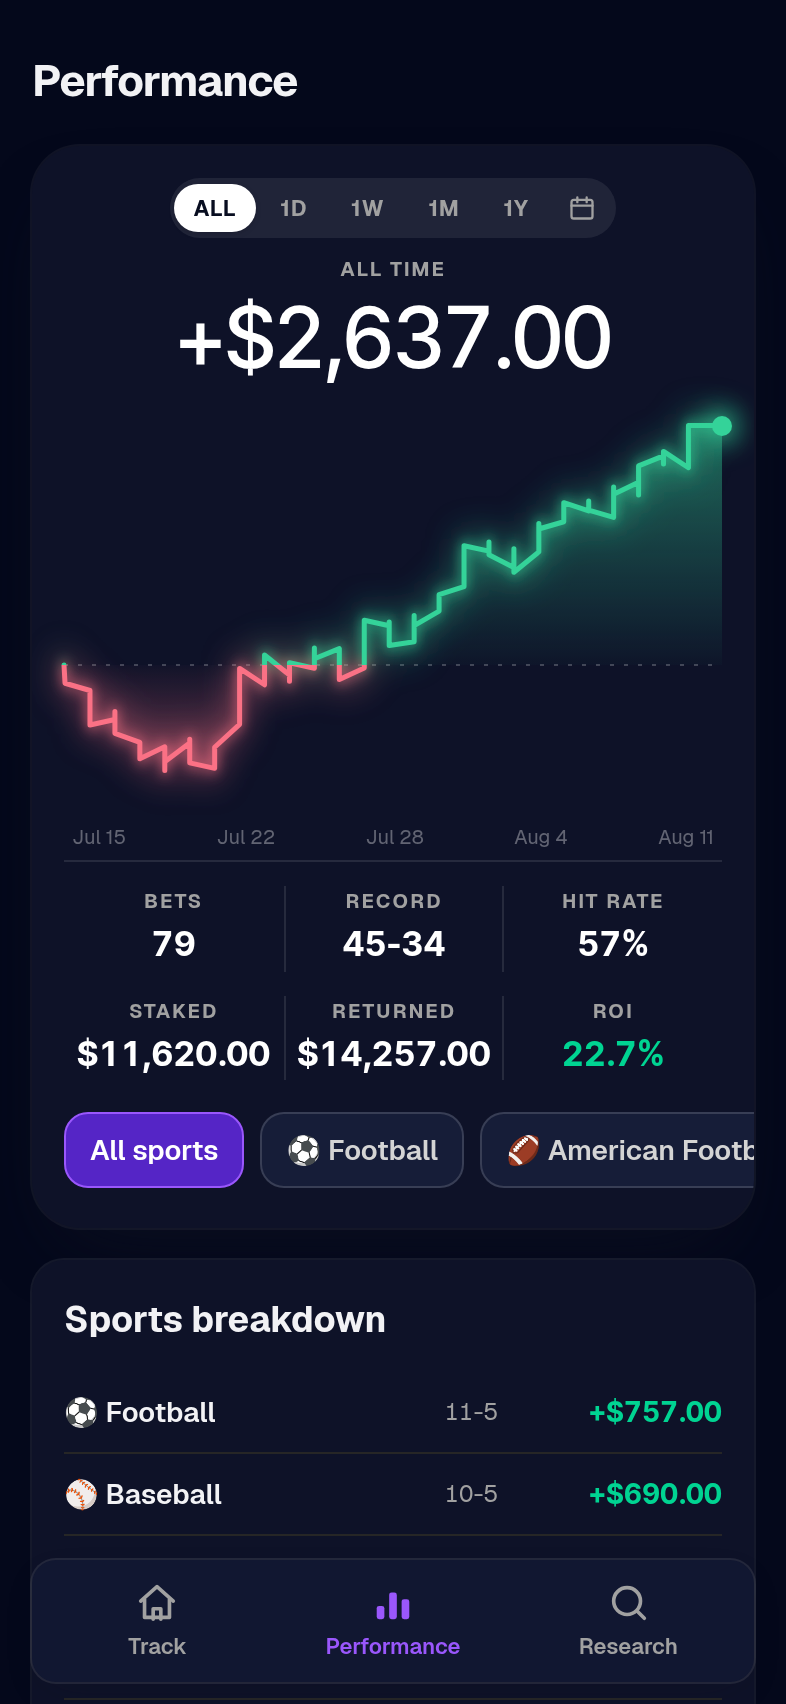
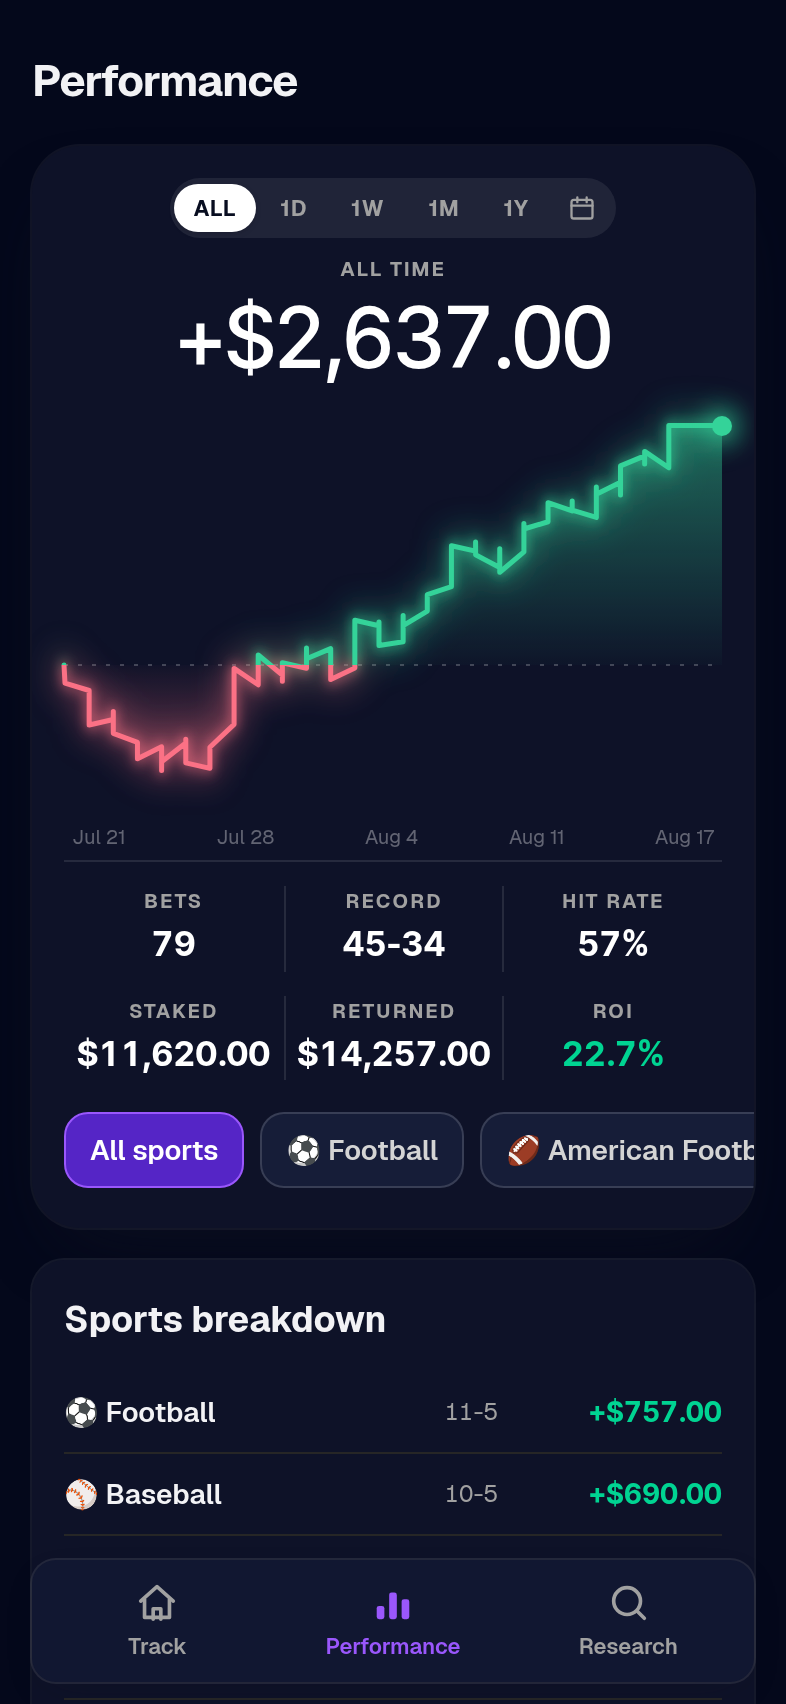
Regenerate the landing screenshots and update the docs for the rename
THE ONE A GREP COULD NOT FIND. The landing hero shows three phones, and
those are not live components: they are six PNGs in public/shots/, shot
on 12 August, with the app's name baked into the pixels. grep over src/
came back clean while the old name sat in the biggest image on the site.
Only looking at the screenshot found it.

All six regenerated from the same preview routes shotset.mjs uses, at
the scale the shipped files actually were. Checked against the old ones
pixel by pixel: the two research shots came out byte identical, which is
the control, since that page has no wordmark. Track and Performance
differ only where the date drives them, because Insight of the day is
seeded by the date and the chart axis is relative to today.

Docs: updated only the lines saying what the product currently IS.
Left alone on purpose, each for a reason:
- the Supabase project is really still named Celebet in the dashboard,
  so renaming that sentence would send a reader looking for a project
  that does not exist
- gocelebet.com and the demo account address, which move with the domain
- the live branch name, which is an identifier
- IDEAS.md entirely, since a backlog is a record of decisions

RENAME-DECISIONS.md records every call made without asking, per the
brief, including why the wordmark kept its typeface: changing a font is
the owner's decision and a rename is not permission to make it.

Verified: full check green, both scrub tests pass, and eight theme
[…]

diff --git a/RENAME-DECISIONS.md b/RENAME-DECISIONS.md
@@ -1,0 +1,85 @@
+# Rename: the calls I made without asking
+
+The brief said to make the call myself on anything it had not decided,
+pick the option that is easiest to reverse, and write down what I chose
+and why. This is that list. August 2026.
+
+## 1. The landing page screenshots were regenerated
+
+**The find of the job, and no grep could have caught it.** The landing
+page's hero shows three phones. Those are not live components, they are
+six PNG screenshots in `public/shots/`, taken on 12 August. The app's
+name is baked into those pixels, so `grep -ril celebet src/` came back
+clean while the old name was still sitting in the middle of the hero.
+
+I only found it by looking at the screenshot, which is exactly why the
+brief asked for that step.
+
+Regenerated all six from the same preview routes and the same settings
+`shotset.mjs` uses, except at deviceScaleFactor 2 rather than 3, because
+2 is what the shipped files actually were (786x1704, not 1179x2556).
+
+Verified against the old files pixel by pixel:
+- `research-light` and `research-dark` came out byte identical, which is
+  the control: that page has no wordmark, so nothing should have moved.
+- `track` and `performance` differ by 4% and 1%. That is the date, not
+  the rename: Insight of the day is seeded by the date, and the chart's
+  axis is relative to today. The originals were shot on 12 August.
+
+Reversible: the old files are in git history.
+
+Not artwork, so not covered by the no-logo rule. These are screenshots
+of the product, and leaving them would have advertised the old name in
+the largest image on the site.
+
+## 2. The Instagram link keeps the old handle
+
+`instagram.com/gocelebet` appears in the landing footer, terms and
+privacy. The account genuinely exists under that handle, so renaming
+the link would point three pages at a dead URL.
+
+Left the URL. Changed the `aria-label` to "Actuals on Instagram",
+because that label names the company, not the handle, and it is what a
+screen reader announces.
+
+Fix this when the new handle is registered. It is on the owner's list.
+
+## 3. The wordmark keeps its typeface
+
+`Wordmark.tsx` had to be rebuilt: its whole design was "cele" in the
+text colour and "bet" in a purple gradient, and the new name has no such
+split. It is now plain text following the theme.
+
+I kept `font-brand`, the app's existing brand face. CLAUDE.md is
+explicit that changing a typeface is the owner's decision and never a
+side effect of other work. A rename is not permission to change a font.
+
+I also kept the `onDark` prop even though nothing passes it today.
+Deleting it would gain nothing and would break a surface that is navy
+in both themes.
+
+## 4. One line left in CLAUDE.md, flagged rather than changed
+
+Line 33: "project id wqhitxtowfhylzpfxkpw, named Celebet".
+
+That is the name of the real Supabase project, in the real dashboard.
+Renaming the sentence would make the note wrong: it would send a future
+reader looking for a project called Actuals that does not exist.
+
+Left it. The owner can rename the project in Supabase, at which point
+this line should follow. It is on his checklist.
+
+## 5. Screenshots were taken through the preview routes
+
+`/app`, `/stats` and `/settings` need a session, and this run had no
+credentials, so they redirect to `/login`. The `/preview/*` routes exist
+for exactly this: they render the SAME components with made up data and
+no auth. That is what the light and dark review sheets show.
+
+The real pages are therefore verified by component, not by URL. The
+first thing worth checking on a phone is that they render logged in.
+
+## 6. design-check.mjs
+
+One comment mentioned the old name. Renamed. It is a build tool, it runs
+inside `npm run check`, and the line is documentation.

diff --git a/CLAUDE.md b/CLAUDE.md
@@ -463,9 +463,9 @@ Written down as given. Not built. Mockups are coming next.
 THE SPLIT THAT MAKES IT WORK. Insights and Research are opposite
 ends of one timeline:
 - Research happens BEFORE a bet. It is active. The user goes looking.
-- Insights happen AFTER a bet. Celebet surfaced them on its own.
+- Insights happen AFTER a bet. Actuals surfaced them on its own.
 
-AN INSIGHT is something Celebet discovered. Not something the user
+AN INSIGHT is something Actuals discovered. Not something the user
 asked for, not something an AI researched. It comes from the user's
 own data. Examples given by the owner:
 - You have won 63% of bets between 1.01 and 1.80 odds.
@@ -510,7 +510,7 @@ THE ONE LINE SUMMARY:
 
 BUILT, August 2026. Research is a shell: a search field and six doors
 (Who is playing, Team and player trends, Compare odds, Weather, What
-the community thinks, Ask CeleBOT). Every one needs data Celebet does
+the community thinks, Ask CeleBOT). Every one needs data Actuals does
 not have, so none of them work and the section says "Coming to
 Research" rather than wearing six identical Soon badges. The icons are
 ink: a color would say the door works. They earn one when they ship.
@@ -594,8 +594,9 @@ Decisions locked in during this build:
   vercel.app address, all with /** wildcards. New domains must be
   added here or reset links silently fall back to the home page.
 - Disclaimer component shows on login, signup, reset, and home:
-  entertainment only, 1-800 GAMBLER, adults only, plus the
-  Celebet trademark line for Peak Street 6 LLC.
+  entertainment only, 1-800 GAMBLER, adults only, plus the line
+  "Actuals is a part of Peak Street 6 LLC". That replaced a trademark
+  claim at the rename, on the owner's wording: the mark is not filed.
 - Testers each create their own account. The old demo account is
   only for people who want a quick peek.
 
@@ -609,7 +610,8 @@ Decisions locked in during this build:
 
 ## Product facts
 
-- App: Celebet, a mobile-first manual sports bet tracker.
+- App: Actuals, a mobile-first manual sports bet tracker. Renamed
+  from Celebet in August 2026.
 - Live at gocelebet.com (Hostinger domain, Hostinger keeps DNS,
   pointed at Vercel). The vercel.app address still works too.
 - The owner has an Instagram account for finding test users.
@@ -660,8 +662,12 @@ Decisions locked in during this build:
   is reached from Track.
 
 THEME. System, Light or Dark, stored in localStorage under
-`celebet-theme`. System is the default and stores nothing, so anyone
+`actuals-theme`. System is the default and stores nothing, so anyone
 who never opens Settings keeps following their phone forever.
+- The key was `celebet-theme` before the rename. Both readers, the raw
+  script in layout.tsx and Settings after mount, fall back to the old
+  key once, copy it across and delete it. They have to stay identical:
+  two rules for one attribute is how the theme flash comes back.
 - The whole app keys off `data-theme` on <html>. globals.css declares
   `@custom-variant dark (&:where([data-theme="dark"], ...))`, so a
   media query alone can no longer decide anything. That swap was the
@@ -681,7 +687,7 @@ balance so a user could start over, and deleting their bets is not
 that. His words: "i think data is still valuable despite wanting a
 fresh reset of your tracking."
 
-So Celebet draws a LINE instead. `tracking_since` goes into the auth
+So Actuals draws a LINE instead. `tracking_since` goes into the auth
 user's metadata (no migration), and `sinceLine()` in src/lib/stats.ts
 keeps a bet if it was NOT already settled before that date.
 - That one rule carries pending bets over, which the owner wanted: a

diff --git a/ROADMAP.md b/ROADMAP.md
@@ -1,4 +1,4 @@
-# Celebet: the mockup build plan
+# Actuals: the mockup build plan
 
 Written August 2026, from the four mockups (mobile and web, dark and
 light). This file is the shared to do list. Nothing here is approved
@@ -27,7 +27,7 @@ already covers a push in practice, by cashing out at the stake, and the
 calculations are known to be right. This removes the only database
 migration phase 1 would have needed.
 
-**No American odds.** The mockups show +175 and -125. Celebet keeps
+**No American odds.** The mockups show +175 and -125. Actuals keeps
 what it has: you enter a chance percentage and the exact payout, and a
 bet reads "Aug 6, 2026, $99.97 at 3.32". American odds may become a
 setting later, once a settings page exists. Not now.

diff --git a/README.md b/README.md
@@ -1,4 +1,4 @@
-# Celebet
+# Actuals
 
 A mobile-first web app for manually tracking sports bets: wallet, profit and loss, and performance statistics.
 
